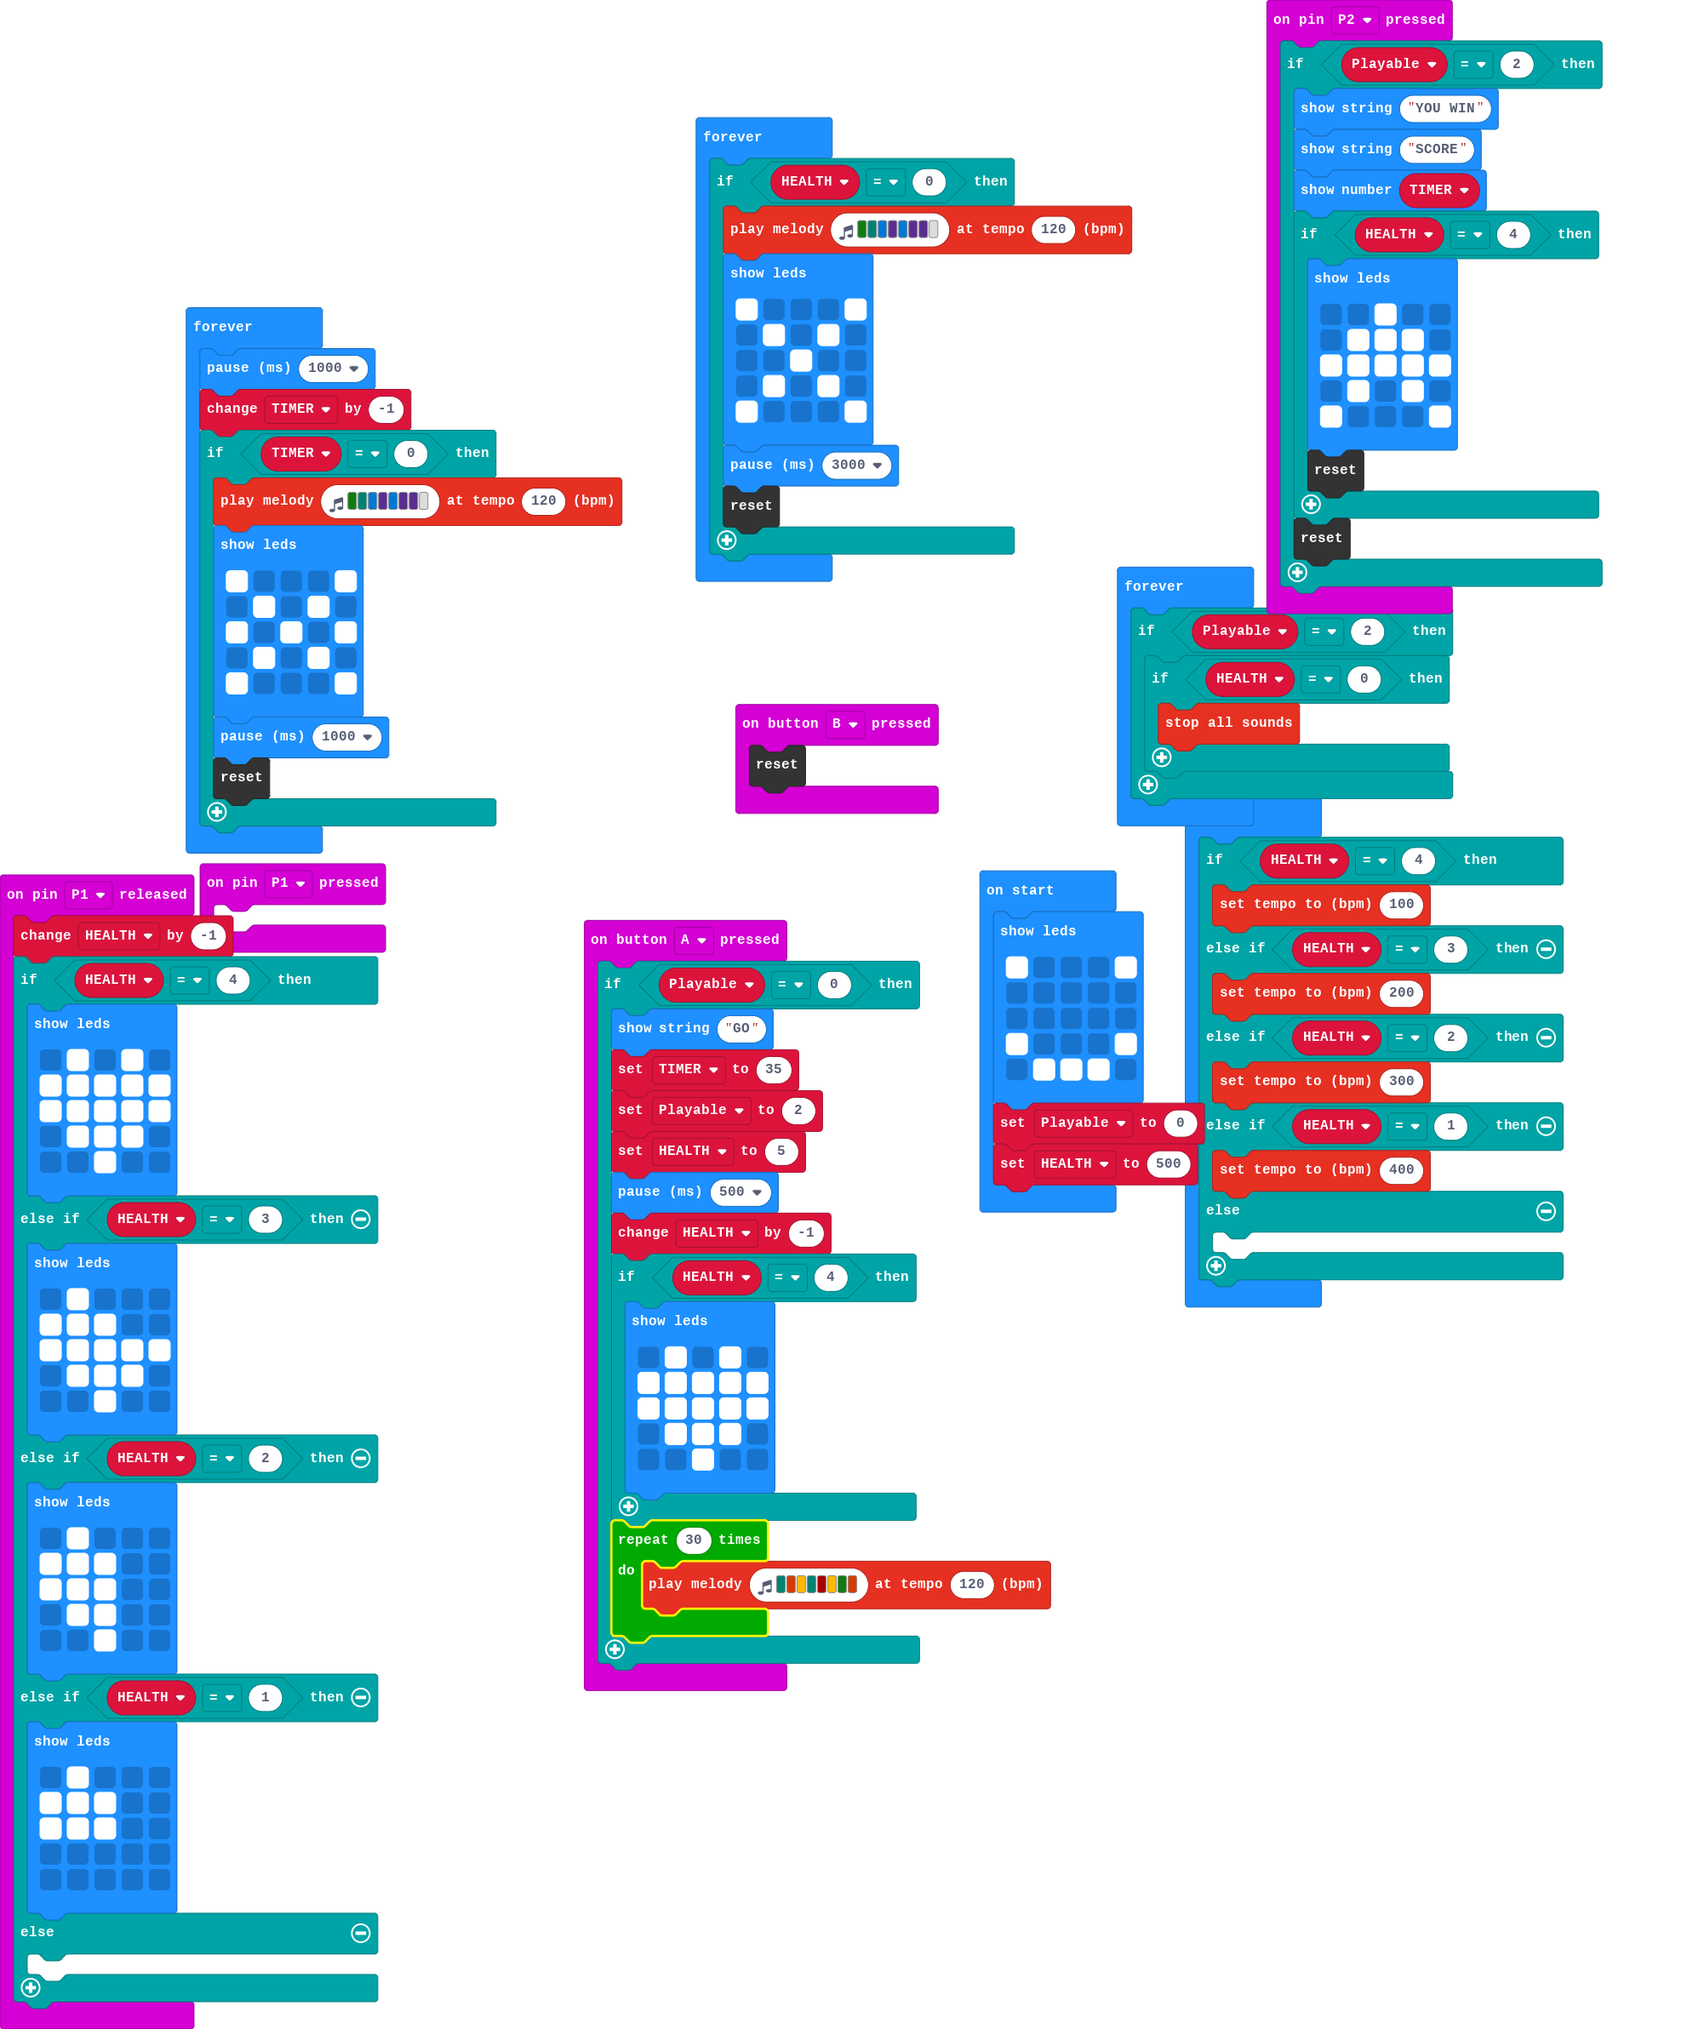
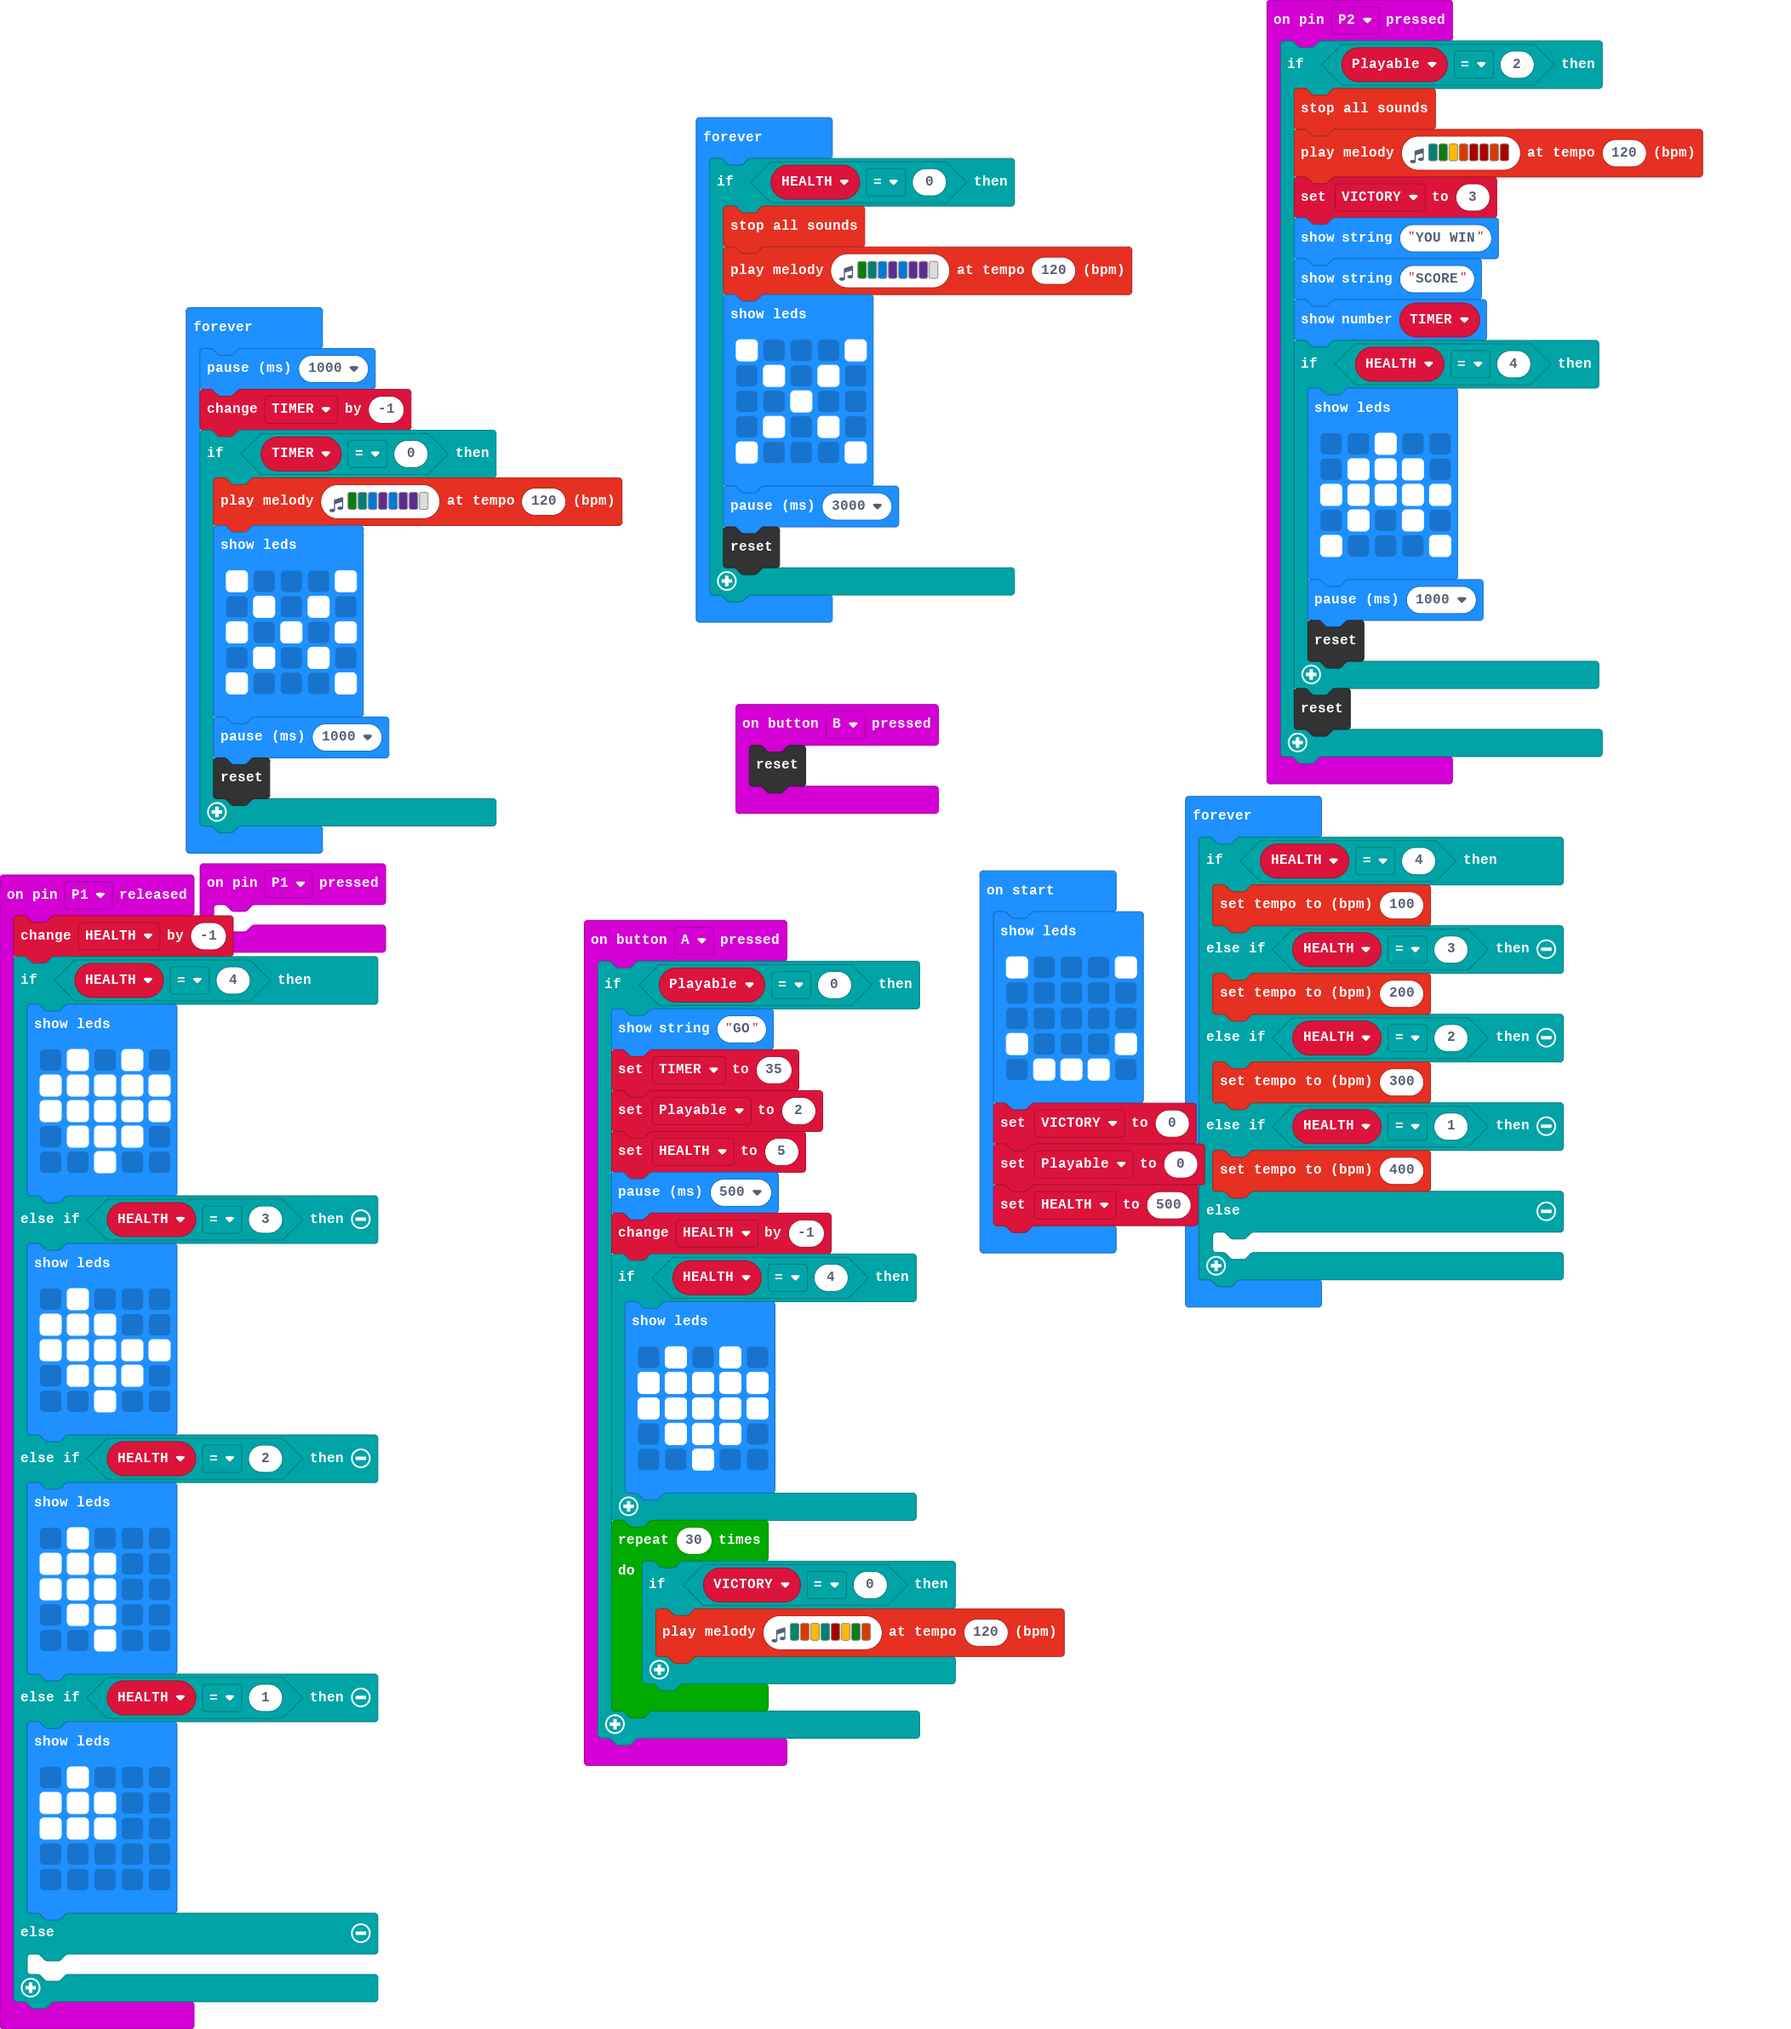
ITS WORKING bitminer

diff --git a/main.ts b/main.ts
@@ -16,12 +16,17 @@ input.onButtonPressed(Button.A, function () {
                 `)
         }
         for (let index = 0; index < 30; index++) {
-            music.playMelody("F B A F C5 A G B ", 120)
+            if (VICTORY == 0) {
+                music.playMelody("F B A F C5 A G B ", 120)
+            }
         }
     }
 })
 input.onPinPressed(TouchPin.P2, function () {
     if (Playable == 2) {
+        music.stopAllSounds()
+        music.playMelody("F G A B C5 C5 B C5 ", 120)
+        VICTORY = 3
         basic.showString("YOU WIN")
         basic.showString("SCORE")
         basic.showNumber(TIMER)
@@ -33,6 +38,7 @@ input.onPinPressed(TouchPin.P2, function () {
                 . # . # .
                 # . . . #
                 `)
+            basic.pause(1000)
             control.reset()
         }
         control.reset()
@@ -85,6 +91,7 @@ input.onPinReleased(TouchPin.P1, function () {
 let TIMER = 0
 let HEALTH = 0
 let Playable = 0
+let VICTORY = 0
 basic.showLeds(`
     # . . . #
     . . . . .
@@ -92,10 +99,12 @@ basic.showLeds(`
     # . . . #
     . # # # .
     `)
+VICTORY = 0
 Playable = 0
 HEALTH = 500
 basic.forever(function () {
     if (HEALTH == 0) {
+        music.stopAllSounds()
         music.playMelody("G F E D E D D - ", 120)
         basic.showLeds(`
             # . . . #
@@ -122,13 +131,6 @@ basic.forever(function () {
             `)
         basic.pause(1000)
         control.reset()
-    }
-})
-basic.forever(function () {
-    if (Playable == 2) {
-        if (HEALTH == 0) {
-            music.stopAllSounds()
-        }
     }
 })
 basic.forever(function () {
